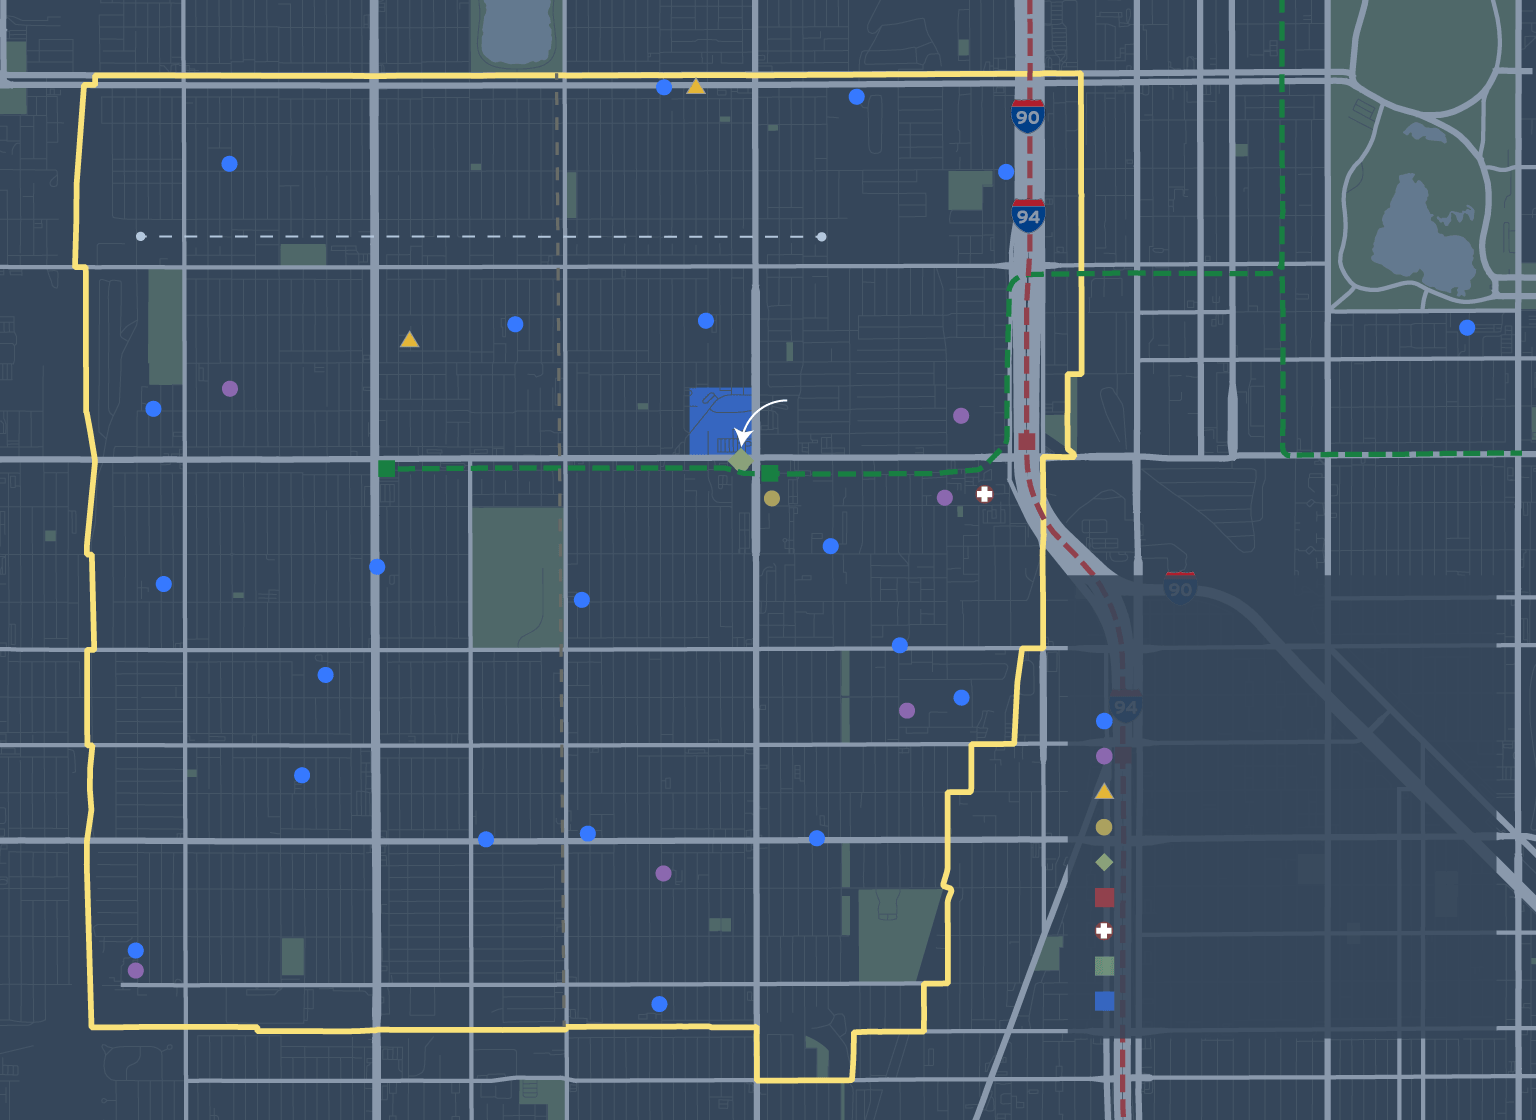
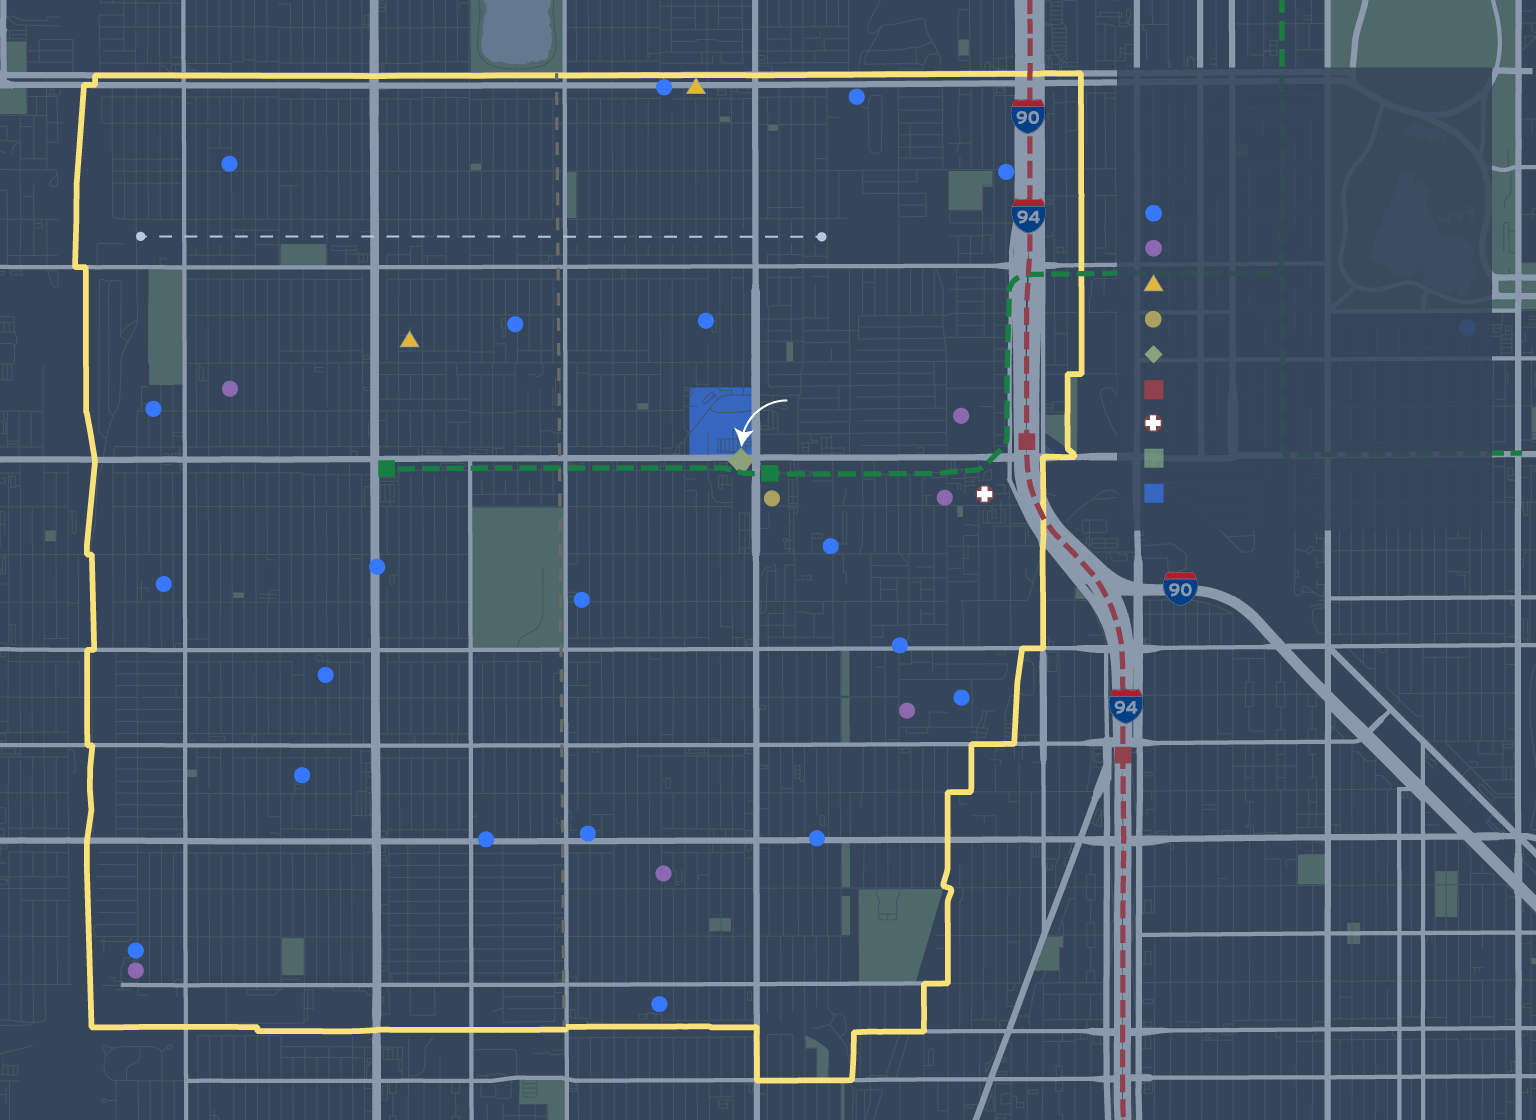
new lg map

Changed region(s): [[0.6875, 0.5, 0.9688, 0.9375], [0.7188, 0.0625, 0.9688, 0.4688], [0.9062, 0.375, 0.9688, 0.4062]]

diff --git a/englewood_2html.html b/englewood_2html.html
@@ -1,5 +1,5 @@
 
-<!-- Generated by ai2html v0.115.5 - 2023-04-12 10:28 -->
+<!-- Generated by ai2html v0.115.5 - 2023-04-12 11:45 -->
 <!-- ai file: englewood_2html.ai -->
 <style media="screen,print">
 	#g-englewood_2html-box ,
@@ -139,6 +139,12 @@
 		position:static;
 	}
 	#g-englewood_2html-ewood_768 .g-pstyle0 {
+		line-height:26px;
+		height:26px;
+		letter-spacing:-0.007em;
+		font-size:26px;
+	}
+	#g-englewood_2html-ewood_768 .g-pstyle1 {
 		font-family:Halyard Text;
 		font-weight:bold;
 		line-height:17px;
@@ -147,7 +153,11 @@
 		text-transform:uppercase;
 		color:rgb(118,131,145);
 	}
-	#g-englewood_2html-ewood_768 .g-pstyle1 {
+	#g-englewood_2html-ewood_768 .g-pstyle2 {
+		height:14px;
+		text-transform:uppercase;
+	}
+	#g-englewood_2html-ewood_768 .g-pstyle3 {
 		font-family:Halyard Text;
 		font-weight:bold;
 		height:14px;
@@ -155,7 +165,7 @@
 		text-transform:uppercase;
 		color:rgb(179,184,188);
 	}
-	#g-englewood_2html-ewood_768 .g-pstyle2 {
+	#g-englewood_2html-ewood_768 .g-pstyle4 {
 		line-height:27px;
 		height:27px;
 		letter-spacing:0.2em;
@@ -163,7 +173,7 @@
 		text-align:center;
 		color:rgb(105,124,140);
 	}
-	#g-englewood_2html-ewood_768 .g-pstyle3 {
+	#g-englewood_2html-ewood_768 .g-pstyle5 {
 		font-family:Halyard Text;
 		font-weight:bold;
 		line-height:16px;
@@ -172,22 +182,12 @@
 		text-transform:uppercase;
 		color:rgb(255,255,255);
 	}
-	#g-englewood_2html-ewood_768 .g-pstyle4 {
+	#g-englewood_2html-ewood_768 .g-pstyle6 {
 		line-height:31px;
 		height:31px;
 		letter-spacing:0.2em;
 		font-size:26px;
 		color:rgb(105,124,140);
-	}
-	#g-englewood_2html-ewood_768 .g-pstyle5 {
-		line-height:26px;
-		height:26px;
-		letter-spacing:-0.007em;
-		font-size:26px;
-	}
-	#g-englewood_2html-ewood_768 .g-pstyle6 {
-		height:14px;
-		text-transform:uppercase;
 	}
 	#g-englewood_2html-ewood_768 .g-pstyle7 {
 		font-family:Halyard Text;
@@ -472,68 +472,68 @@
 	<div id="g-englewood_2html-ewood_768" class="g-artboard" style="min-width: 768px;max-width: 1199px;max-height: 874px" data-aspect-ratio="1.372" data-min-width="768" data-max-width="1199">
 <div style="padding: 0 0 72.89% 0;"></div>
 		<img id="g-englewood_2html-ewood_768-img" class="g-englewood_2html-ewood_768-img g-aiImg" alt="" src="englewood_2html-ewood_768.png"/>
-		<div id="g-ai1-1" class="g-labels g-aiAbs g-aiPointText" style="top:9.5141%;margin-top:-9.3px;left:27.5293%;width:86px;">
-			<p class="g-pstyle0">GARFIELD</p>
+		<div id="g-ai1-1" class="g-labels g-aiAbs g-aiPointText" style="top:12.343%;margin-top:-27.1px;left:74.5562%;width:174px;">
+			<p class="g-pstyle0">Englewood: </p>
+			<p class="g-pstyle0">Key locations</p>
 		</div>
-		<div id="g-ai1-2" class="g-labels g-aiAbs g-aiPointText" style="top:19.4208%;margin-top:-7.7px;left:34.3794%;margin-left:-97.5px;width:195px;">
-			<p class="g-pstyle1">proposed englewood trail</p>
+		<div id="g-ai1-2" class="g-labels g-aiAbs g-aiPointText" style="top:9.5141%;margin-top:-9.3px;left:27.5293%;width:86px;">
+			<p class="g-pstyle1">GARFIELD</p>
 		</div>
-		<div id="g-ai1-3" class="g-labels g-aiAbs g-aiPointText" style="top:25.2891%;margin-top:-11.6px;left:52.8284%;width:89px;">
-			<p class="g-pstyle0">WEST 59<span class="g-cstyle0">th</span></p>
+		<div id="g-ai1-3" class="g-labels g-aiAbs g-aiPointText" style="top:19.048%;margin-top:-7.6px;left:76.269%;width:169px;">
+			<p class="g-pstyle2">CPS Elementary school</p>
 		</div>
-		<div id="g-ai1-4" class="g-nhood_labels g-aiAbs g-aiPointText" style="top:30.7669%;margin-top:-28.2px;left:24.2147%;margin-left:-99px;width:198px;">
-			<p class="g-pstyle2">WEST</p>
-			<p class="g-pstyle2">ENGLEWOOD</p>
+		<div id="g-ai1-4" class="g-labels g-aiAbs g-aiPointText" style="top:19.4208%;margin-top:-7.7px;left:34.3794%;margin-left:-97.5px;width:195px;">
+			<p class="g-pstyle3">proposed englewood trail</p>
 		</div>
-		<div id="g-ai1-5" class="g-callouts g-aiAbs g-aiPointText" style="top:35.5055%;margin-top:-16.8px;left:51.612%;width:108px;">
-			<p class="g-pstyle3">teamwork</p>
-			<p class="g-pstyle3">englewood</p>
+		<div id="g-ai1-5" class="g-labels g-aiAbs g-aiPointText" style="top:22.2635%;margin-top:-7.6px;left:76.269%;width:124px;">
+			<p class="g-pstyle2">CPS high school</p>
 		</div>
-		<div id="g-ai1-6" class="g-labels g-aiAbs g-aiPointText" style="top:42.7955%;margin-top:-11.6px;left:12.8972%;width:90px;">
-			<p class="g-pstyle0">WEST 63<span class="g-cstyle0">RD</span></p>
+		<div id="g-ai1-6" class="g-labels g-aiAbs g-aiPointText" style="top:25.2891%;margin-top:-11.6px;left:52.8284%;width:89px;">
+			<p class="g-pstyle1">WEST 59<span class="g-cstyle0">th</span></p>
 		</div>
-		<div id="g-ai1-7" class="g-nhood_labels g-aiAbs g-aiPointText" style="top:53.7203%;margin-top:-16.7px;left:39.3733%;width:225px;">
+		<div id="g-ai1-7" class="g-labels g-aiAbs g-aiPointText" style="top:25.3003%;margin-top:-7.6px;left:76.269%;width:160px;">
+			<p class="g-pstyle2">BIG SHOULDERS SCHOOL</p>
+		</div>
+		<div id="g-ai1-8" class="g-nhood_labels g-aiAbs g-aiPointText" style="top:30.7669%;margin-top:-28.2px;left:24.2147%;margin-left:-99px;width:198px;">
+			<p class="g-pstyle4">WEST</p>
 			<p class="g-pstyle4">ENGLEWOOD</p>
 		</div>
-		<div id="g-ai1-8" class="g-labels g-aiAbs g-aiPointText" style="top:57.7168%;margin-top:-27.1px;left:71.3518%;width:174px;">
-			<p class="g-pstyle5">Englewood: </p>
-			<p class="g-pstyle5">Key locations</p>
+		<div id="g-ai1-9" class="g-labels g-aiAbs g-aiPointText" style="top:28.5158%;margin-top:-7.6px;left:76.247%;width:73px;">
+			<p class="g-pstyle2">COLLEGE</p>
 		</div>
-		<div id="g-ai1-9" class="g-labels g-aiAbs g-aiPointText" style="top:64.4218%;margin-top:-7.6px;left:73.0646%;width:169px;">
-			<p class="g-pstyle6">CPS Elementary school</p>
+		<div id="g-ai1-10" class="g-labels g-aiAbs g-aiPointText" style="top:31.5526%;margin-top:-7.6px;left:76.269%;width:147px;">
+			<p class="g-pstyle2">COMMUNITY PARTNER</p>
 		</div>
-		<div id="g-ai1-10" class="g-labels g-aiAbs g-aiPointText" style="top:67.6372%;margin-top:-7.6px;left:73.0646%;width:124px;">
-			<p class="g-pstyle6">CPS high school</p>
+		<div id="g-ai1-11" class="g-callouts g-aiAbs g-aiPointText" style="top:35.5055%;margin-top:-16.8px;left:51.612%;width:108px;">
+			<p class="g-pstyle5">teamwork</p>
+			<p class="g-pstyle5">englewood</p>
 		</div>
-		<div id="g-ai1-11" class="g-labels g-aiAbs g-aiPointText" style="top:70.674%;margin-top:-7.6px;left:73.0646%;width:160px;">
-			<p class="g-pstyle6">BIG SHOULDERS SCHOOL</p>
+		<div id="g-ai1-12" class="g-labels g-aiAbs g-aiPointText" style="top:34.7681%;margin-top:-7.6px;left:76.269%;width:110px;">
+			<p class="g-pstyle2">CTA TRAIN STOP</p>
 		</div>
-		<div id="g-ai1-12" class="g-labels g-aiAbs g-aiPointText" style="top:73.8895%;margin-top:-7.6px;left:73.0426%;width:73px;">
-			<p class="g-pstyle6">COLLEGE</p>
+		<div id="g-ai1-13" class="g-labels g-aiAbs g-aiPointText" style="top:37.8049%;margin-top:-7.6px;left:76.269%;width:75px;">
+			<p class="g-pstyle2">HOSPITAL</p>
 		</div>
-		<div id="g-ai1-13" class="g-labels g-aiAbs g-aiPointText" style="top:76.9263%;margin-top:-7.6px;left:73.0646%;width:147px;">
-			<p class="g-pstyle6">COMMUNITY PARTNER</p>
+		<div id="g-ai1-14" class="g-labels g-aiAbs g-aiPointText" style="top:41.0203%;margin-top:-7.6px;left:76.269%;width:51px;">
+			<p class="g-pstyle2">PARK</p>
 		</div>
-		<div id="g-ai1-14" class="g-labels g-aiAbs g-aiPointText" style="transform: matrix(0,-1,1,0,0,0);transform-origin: 50% 55.399704703649%;-webkit-transform: matrix(0,-1,1,0,0,0);-webkit-transform-origin: 50% 55.399704703649%;-ms-transform: matrix(0,-1,1,0,0,0);-ms-transform-origin: 50% 55.399704703649%;top:81.6834%;margin-top:-9.3px;left:23.2702%;margin-left:-42.5px;width:85px;">
+		<div id="g-ai1-15" class="g-labels g-aiAbs g-aiPointText" style="top:42.7955%;margin-top:-11.6px;left:12.8972%;width:90px;">
+			<p class="g-pstyle1">WEST 63<span class="g-cstyle0">RD</span></p>
+		</div>
+		<div id="g-ai1-16" class="g-labels g-aiAbs g-aiPointText" style="top:44.0572%;margin-top:-7.6px;left:76.269%;width:59px;">
+			<p class="g-pstyle2">RETAIL</p>
+		</div>
+		<div id="g-ai1-17" class="g-nhood_labels g-aiAbs g-aiPointText" style="top:53.7203%;margin-top:-16.7px;left:39.3733%;width:225px;">
+			<p class="g-pstyle6">ENGLEWOOD</p>
+		</div>
+		<div id="g-ai1-18" class="g-labels g-aiAbs g-aiPointText" style="transform: matrix(0,-1,1,0,0,0);transform-origin: 50% 55.399704703649%;-webkit-transform: matrix(0,-1,1,0,0,0);-webkit-transform-origin: 50% 55.399704703649%;-ms-transform: matrix(0,-1,1,0,0,0);-ms-transform-origin: 50% 55.399704703649%;top:81.6834%;margin-top:-9.3px;left:23.2702%;margin-left:-42.5px;width:85px;">
 			<p class="g-pstyle7">ASHLAND</p>
 		</div>
-		<div id="g-ai1-15" class="g-labels g-aiAbs g-aiPointText" style="transform: matrix(0,-1,1,0,0,0);transform-origin: 50% 55.399704703649%;-webkit-transform: matrix(0,-1,1,0,0,0);-webkit-transform-origin: 50% 55.399704703649%;-ms-transform: matrix(0,-1,1,0,0,0);-ms-transform-origin: 50% 55.399704703649%;top:81.862%;margin-top:-9.3px;left:48.0544%;margin-left:-40.5px;width:81px;">
+		<div id="g-ai1-19" class="g-labels g-aiAbs g-aiPointText" style="transform: matrix(0,-1,1,0,0,0);transform-origin: 50% 55.399704703649%;-webkit-transform: matrix(0,-1,1,0,0,0);-webkit-transform-origin: 50% 55.399704703649%;-ms-transform: matrix(0,-1,1,0,0,0);-ms-transform-origin: 50% 55.399704703649%;top:81.862%;margin-top:-9.3px;left:48.0544%;margin-left:-40.5px;width:81px;">
 			<p class="g-pstyle7">HALSTED</p>
 		</div>
-		<div id="g-ai1-16" class="g-labels g-aiAbs g-aiPointText" style="transform: matrix(0,-1,1,0,0,0);transform-origin: 50% 55.3999894531456%;-webkit-transform: matrix(0,-1,1,0,0,0);-webkit-transform-origin: 50% 55.3999894531456%;-ms-transform: matrix(0,-1,1,0,0,0);-ms-transform-origin: 50% 55.3999894531456%;top:82.7551%;margin-top:-9.3px;left:35.6628%;margin-left:-36px;width:72px;">
+		<div id="g-ai1-20" class="g-labels g-aiAbs g-aiPointText" style="transform: matrix(0,-1,1,0,0,0);transform-origin: 50% 55.3999894531456%;-webkit-transform: matrix(0,-1,1,0,0,0);-webkit-transform-origin: 50% 55.3999894531456%;-ms-transform: matrix(0,-1,1,0,0,0);-ms-transform-origin: 50% 55.3999894531456%;top:82.7551%;margin-top:-9.3px;left:35.6628%;margin-left:-36px;width:72px;">
 			<p class="g-pstyle7">RACINE</p>
-		</div>
-		<div id="g-ai1-17" class="g-labels g-aiAbs g-aiPointText" style="top:80.1418%;margin-top:-7.6px;left:73.0646%;width:110px;">
-			<p class="g-pstyle6">CTA TRAIN STOP</p>
-		</div>
-		<div id="g-ai1-18" class="g-labels g-aiAbs g-aiPointText" style="top:83.1786%;margin-top:-7.6px;left:73.0646%;width:75px;">
-			<p class="g-pstyle6">HOSPITAL</p>
-		</div>
-		<div id="g-ai1-19" class="g-labels g-aiAbs g-aiPointText" style="top:86.3941%;margin-top:-7.6px;left:73.0646%;width:51px;">
-			<p class="g-pstyle6">PARK</p>
-		</div>
-		<div id="g-ai1-20" class="g-labels g-aiAbs g-aiPointText" style="top:89.4309%;margin-top:-7.6px;left:73.0646%;width:59px;">
-			<p class="g-pstyle6">RETAIL</p>
 		</div>
 	</div>
 
@@ -675,4 +675,4 @@
 
 </div>
 
-<!-- End ai2html - 2023-04-12 10:28 -->
+<!-- End ai2html - 2023-04-12 11:45 -->
